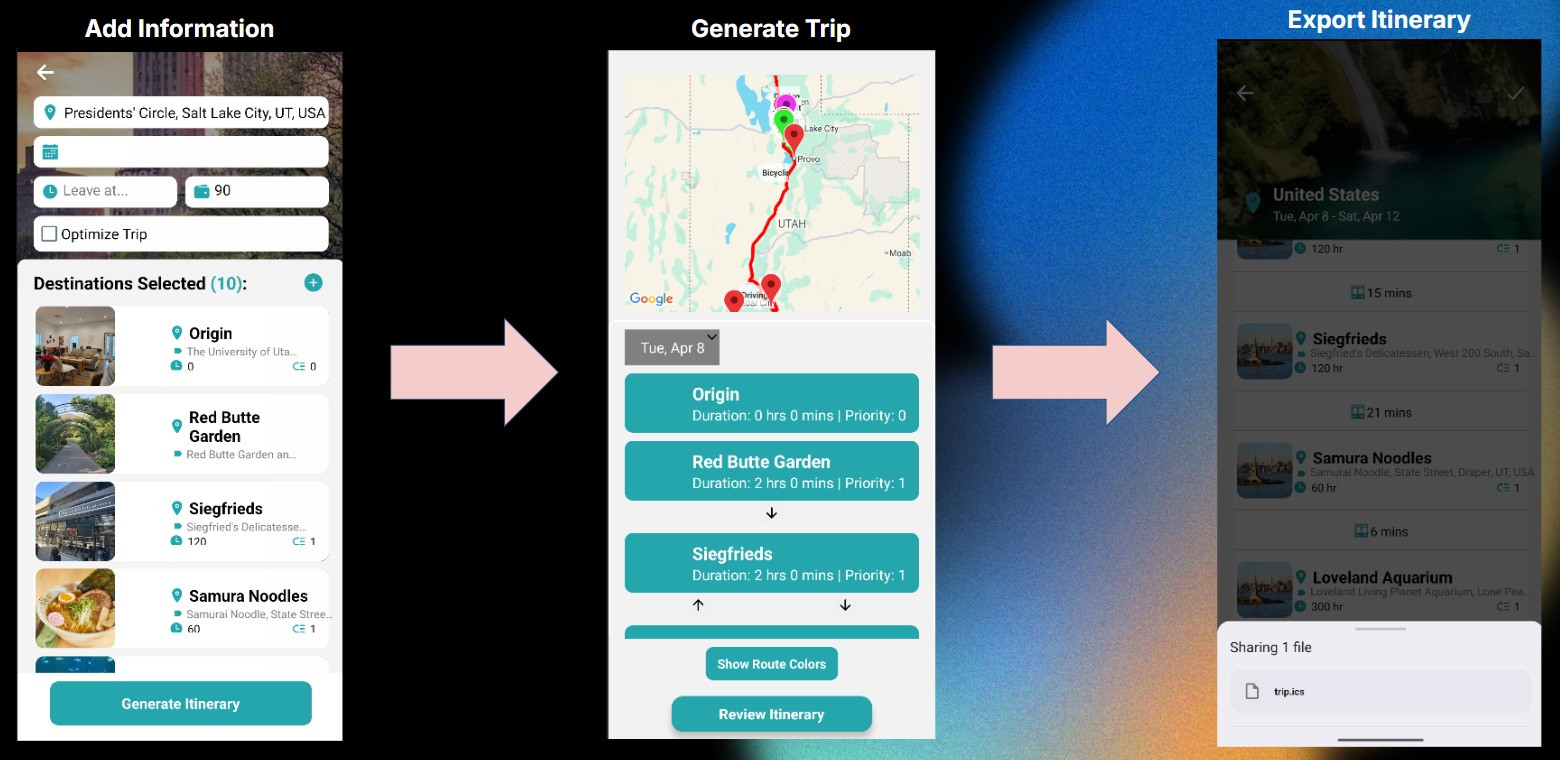
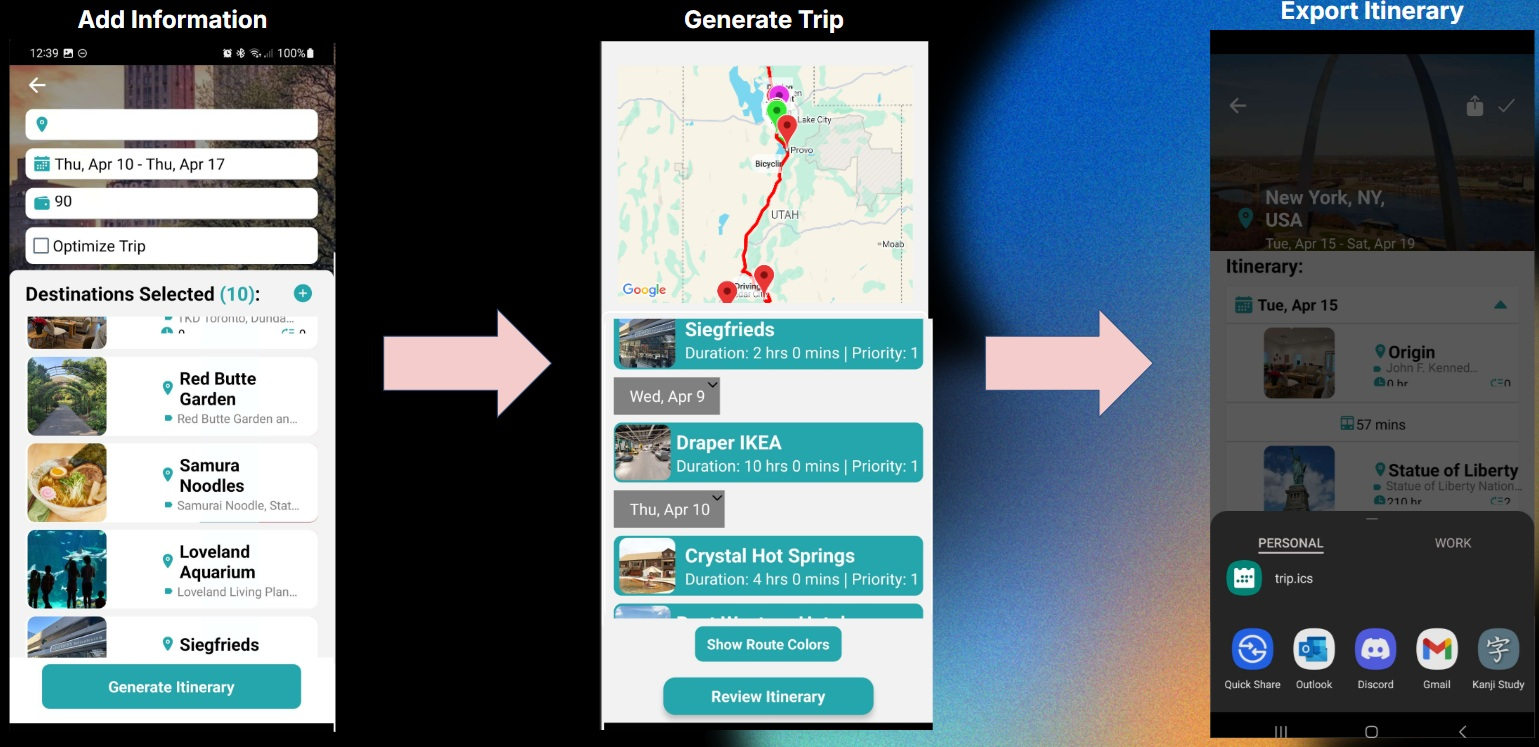
Updated photos and added some new ones to tutorial.html

diff --git a/backend/public/tutorial.html b/backend/public/tutorial.html
@@ -55,7 +55,10 @@
     You may also navigate to create a new trip by pressing the '+' in the top right corner.<br>
     Additionally, you can manage your budget here by clicking on the three dots to visit the Budget Manager screen.
   </p>
+  <div class="images-container">
   <img src="assets/existing_trips_example.jpg" alt="List of existing trips">
+  <img src="assets/budget_three_dots.jpg" alt="Options for a trip from clicking the three dots button">
+  </div>
   <h5>Budget Manager</h5>
   <p>Your expenses are shown here and are divided into different predefined categories:</p>
   <ul>
@@ -70,6 +73,7 @@
   </p>
   <div class="images-container">
     <img src="assets/budget_summary.jpg" alt="Budget summary example">
+    <img src="assets/budget_category.jpg" alt="All expenses in the Transportation category">
     <img src="assets/adding_expense.jpg" alt="Adding an expenses">
   </div>
   <h4>Account</h4>
@@ -84,11 +88,13 @@
     Upon navigating to this screen, you will be prompted to enter a name for your trip. This is optional and you can rename your trip later on the Calendar Screen if you wish to do so.<br>
     Only three pieces of information are required before proceeding to the next screen:
   </p>
+  <img src="assets/optional_name_prompt.jpg" alt="Add a trip name at the start">
   <ul>
     <li><strong>Place:</strong> The country/state/city you plan to visit by selecting a typed-in autocomplete address.</li>
     <li><strong>Dates:</strong> The range of days you plan your trip to be chosen with a CalendarPicker.</li>
     <li><strong>Budget:</strong> The amount you're willing to spend on the trip in your desired currency.</li>
   </ul>
+  <img src="assets/new_trip_properties.jpg" alt="The three inputs for creating a new trip: country/state/city, dates, and budget">
   </div>
 
   <div class="section step-one">
@@ -143,7 +149,11 @@
     Pressing each location will print up the directions to get to the next destination. Additionally, you're able to change the mode of transportation here. While the transportation mode is changing, you're unable to change it again along with reordering locations until it has finished loading.<br>
     Please note that a change in transportation may end up exceeding the amount of time in that day. You're able to keep the mode change but EasyGoing will remind you that in doing so, your trip for that day exceeds the 16-hour limit.
   </p>
-  <img src="assets/gi_example.png" alt="Example of a list of directions">
+  <div class="images-container">
+    <img src="assets/gi_example.png" alt="Example of a list of directions">
+    <img src="assets/time_warning_popup.jpg" alt="Popup alerting you that the changed transportation mode will exceed total available time">
+    <img src="assets/move_buttons.jpg" alt="Up/down buttons underneath each location to reorder them">
+  </div>
   <p>
     Pressing the Up/Down button below each corresponding location will switch its order with the location above/below it respectively and the map will generate the new route and directions. Please note that you are unable to change the origin and can only reorder locations within days but not across different ones.<br>
     A Route Color Key is provided for you to see which color represents which mode of transportation on the map. This is especially useful for public transportation.<br>
@@ -159,6 +169,8 @@
     <li><strong>Go Back:</strong> "Cancel" - Go back to the Add Destinations Screen and either change durations, remove locations, or increase your trip dates.</li>
     <li><strong>Priority System:</strong> "OK" - This will use the priorities set in the Add Destinations Screen and remove lowest priority destinations until your trip duration will fit the current allocated amount of time.</li>
   </ul>
+</p>
+<img src="assets/priority_warning.jpg" alt="Popup asking if you're fine with the priority system activating to remove locations">
   <p>
     Once you're done customizing your trip with reordering, modes of transportation, etc, you can press "Review Itinerary" to proceed to Step 3.
   </p>
